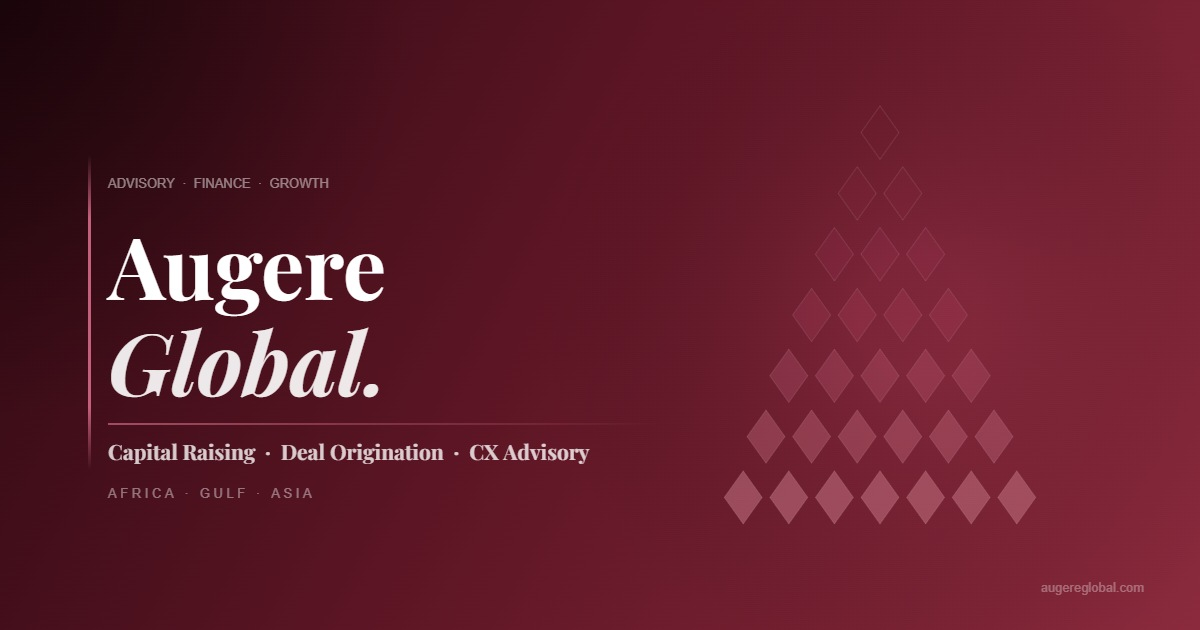
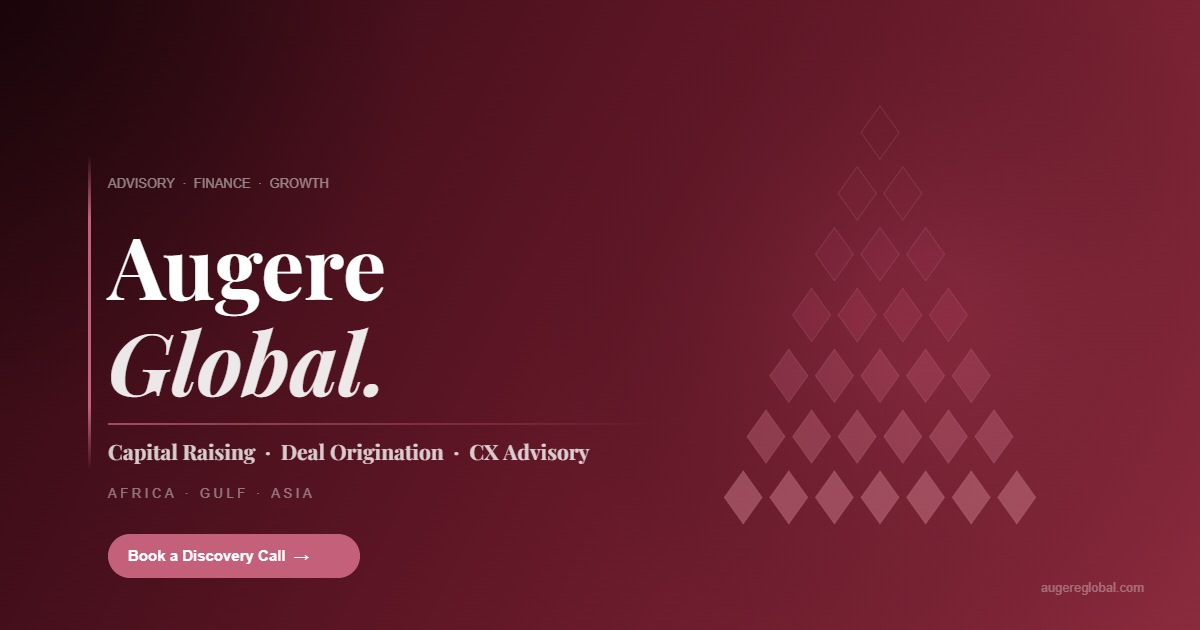
Add CTA pill to OG image

Changed region(s): [[0.0925, 0.8444, 0.3083, 0.9349]]

diff --git a/og-image-gen.html b/og-image-gen.html
@@ -142,7 +142,29 @@ async function render() {
   ctx.fillStyle = 'rgba(255,255,255,0.42)';
   ctx.fillText('A F R I C A   ·   G U L F   ·   A S I A', 108, 498);
 
-  // 11. URL — bottom right
+  // 11. CTA pill
+  (function() {
+    const px = 108, py = 534, pw = 252, ph = 44, pr = 22;
+    ctx.beginPath();
+    ctx.moveTo(px + pr, py);
+    ctx.lineTo(px + pw - pr, py);
+    ctx.arcTo(px + pw, py, px + pw, py + pr, pr);
+    ctx.lineTo(px + pw, py + ph - pr);
+    ctx.arcTo(px + pw, py + ph, px + pw - pr, py + ph, pr);
+    ctx.lineTo(px + pr, py + ph);
+    ctx.arcTo(px, py + ph, px, py + ph - pr, pr);
+    ctx.lineTo(px, py + pr);
+    ctx.arcTo(px, py, px + pr, py, pr);
+    ctx.closePath();
+    ctx.fillStyle = '#C4607A';
+    ctx.fill();
+    ctx.font = 'bold 15px -apple-system, Helvetica, Arial, sans-serif';
+    ctx.fillStyle = '#FFFFFF';
+    ctx.textAlign = 'left';
+    ctx.fillText('Book a Discovery Call  →', 128, 561);
+  })();
+
+  // 12. URL — bottom right
   ctx.font = '400 13px -apple-system, Helvetica, Arial, sans-serif';
   ctx.fillStyle = 'rgba(255,255,255,0.32)';
   ctx.textAlign = 'right';
